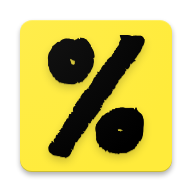
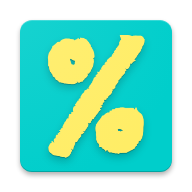
Update color palette

diff --git a/sw.js b/sw.js
@@ -1,5 +1,5 @@
 // Service Worker
-// version: 0.2
+// version: 0.3
 //
 self.addEventListener('install', function(e) {
   e.waitUntil(
